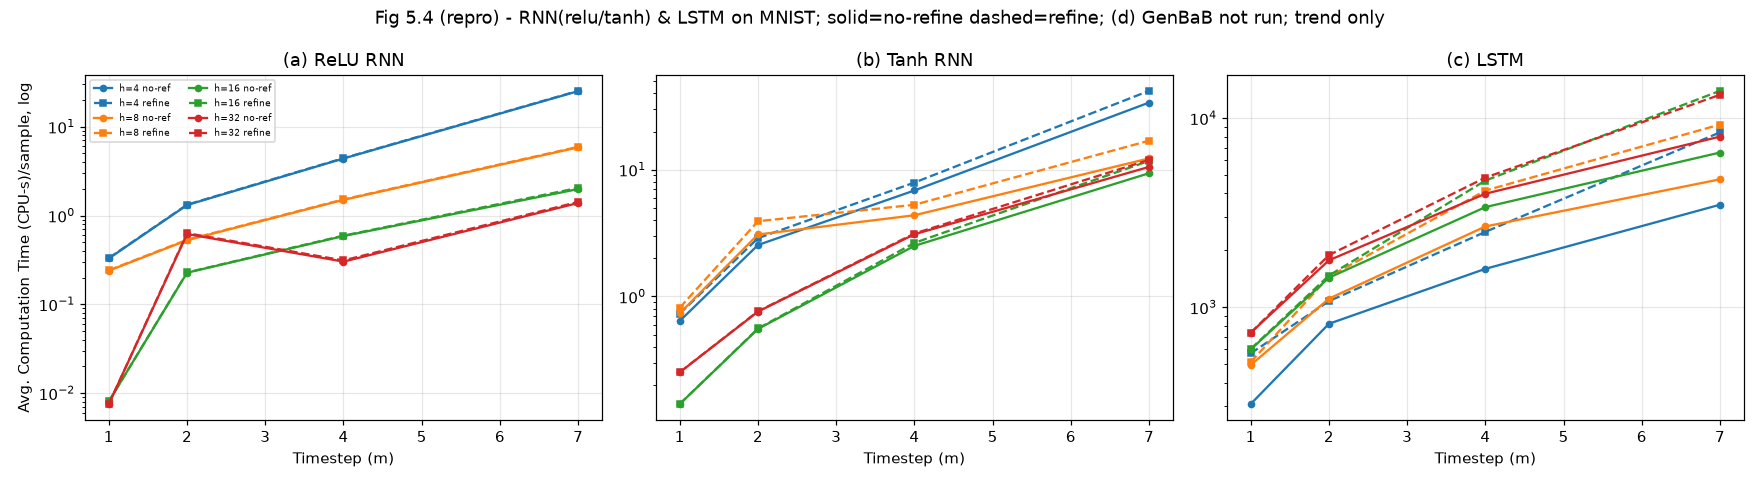
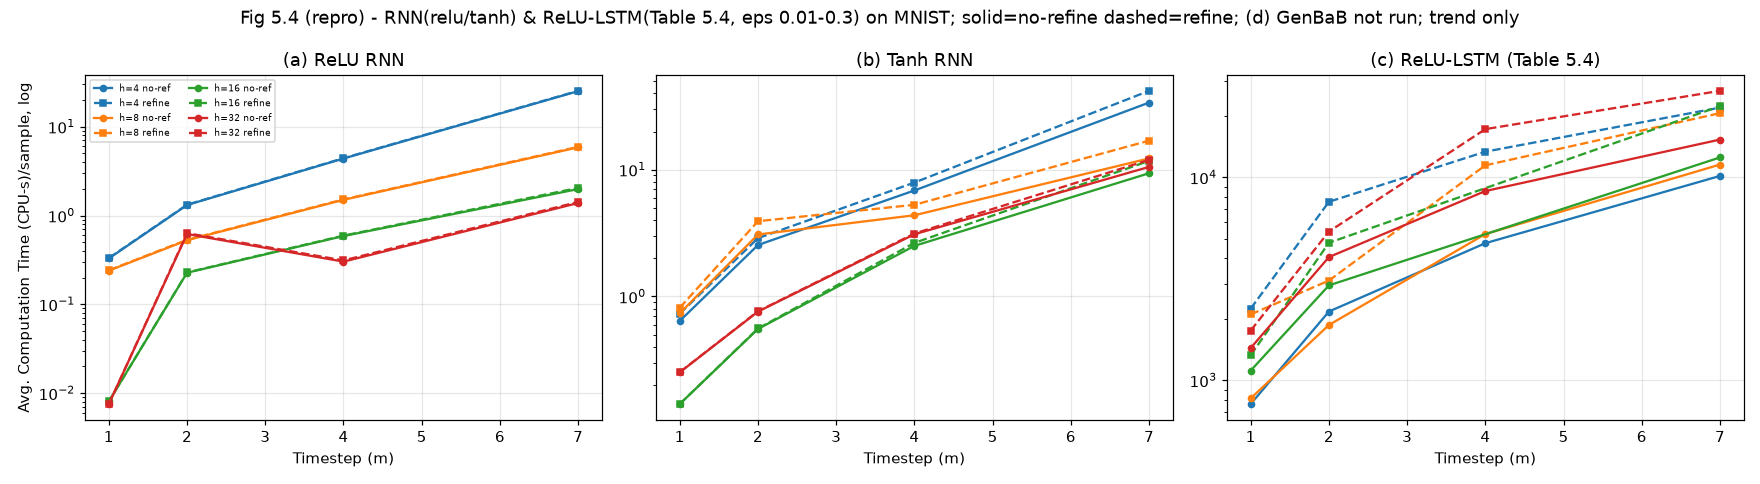
review: Fig 5.4 regenerated with corrected ReLU-LSTM data

diff --git a/review/drivers/make_figures.py b/review/drivers/make_figures.py
@@ -39,7 +39,7 @@ def load(dirn, lstm=False):
     return out
 
 cif = load("rnn_cifar10"); seq = load("rnn_seq")
-mni = load("rnn_mnist");   lstm = load("lstm_mnist", lstm=True)
+mni = load("rnn_mnist");   lstm = load("author_lstm_v2", lstm=True)  # 表5.4=作者 ReLU-LSTM, eps 0.01-0.3
 # Fig 5.1/5.2/5.3 把 CIFAR(8-32)+Stroke(30-45) 合到同一軸
 comb = {**cif, **seq}
 MS_COMB = [8, 12, 24, 32, 30, 35, 40, 45]; MS_COMB = sorted(set(MS_COMB))
@@ -102,7 +102,7 @@ def fig53():
 def fig54():
     M = [1, 2, 4, 7]; H = [4, 8, 16, 32]
     colors = {4:"tab:blue", 8:"tab:orange", 16:"tab:green", 32:"tab:red"}
-    panels = [("(a) ReLU RNN", mni, "relu"), ("(b) Tanh RNN", mni, "tanh"), ("(c) LSTM", lstm, "lstm")]
+    panels = [("(a) ReLU RNN", mni, "relu"), ("(b) Tanh RNN", mni, "tanh"), ("(c) ReLU-LSTM (Table 5.4)", lstm, "lstm")]
     fig, ax = plt.subplots(1, 3, figsize=(16, 4.4))
     for i, (title, src, act) in enumerate(panels):
         for h in H:
@@ -112,7 +112,7 @@ def fig54():
             ax[i].plot(xs, [src[(m,act,h)]["refine"]   for m in xs], "--", color=colors[h], marker="s", ms=4, label=f"h={h} refine")
         ax[i].set_title(title); ax[i].set_xlabel("Timestep (m)"); ax[i].grid(alpha=.3); ax[i].set_yscale("log")
     ax[0].set_ylabel("Avg. Computation Time (CPU-s)/sample, log"); ax[0].legend(fontsize=6, ncol=2)
-    fig.suptitle("Fig 5.4 (repro) - RNN(relu/tanh) & LSTM on MNIST; solid=no-refine dashed=refine; (d) GenBaB not run; trend only")
+    fig.suptitle("Fig 5.4 (repro) - RNN(relu/tanh) & ReLU-LSTM(Table 5.4, eps 0.01-0.3) on MNIST; solid=no-refine dashed=refine; (d) GenBaB not run; trend only")
     fig.tight_layout(); fig.savefig(f"{OUT}/fig5_4_repro.png", dpi=110); plt.close(fig)
     trends.append("Fig5.4: LSTM ≫ vanilla RNN(數量級)、refine>no-refine、隨m上升 ✓；缺GenBaB(d)")
 
